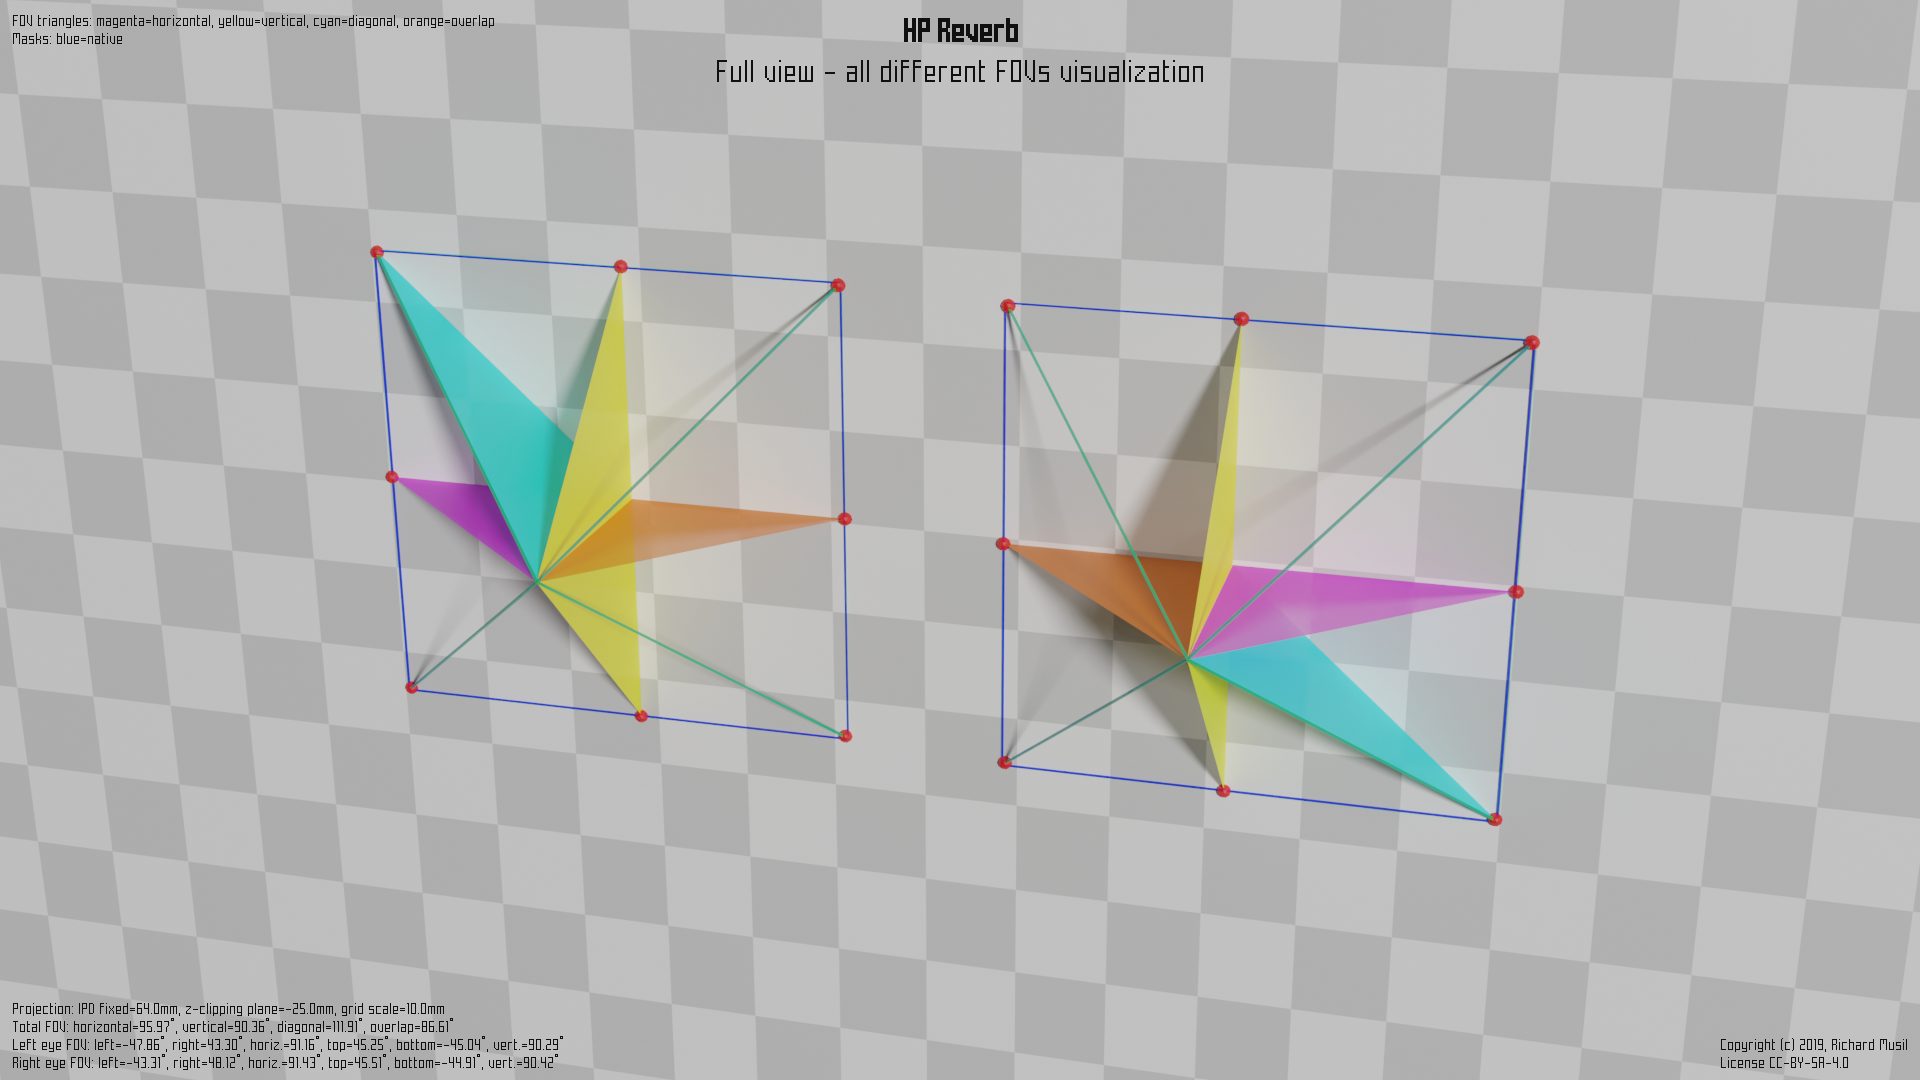
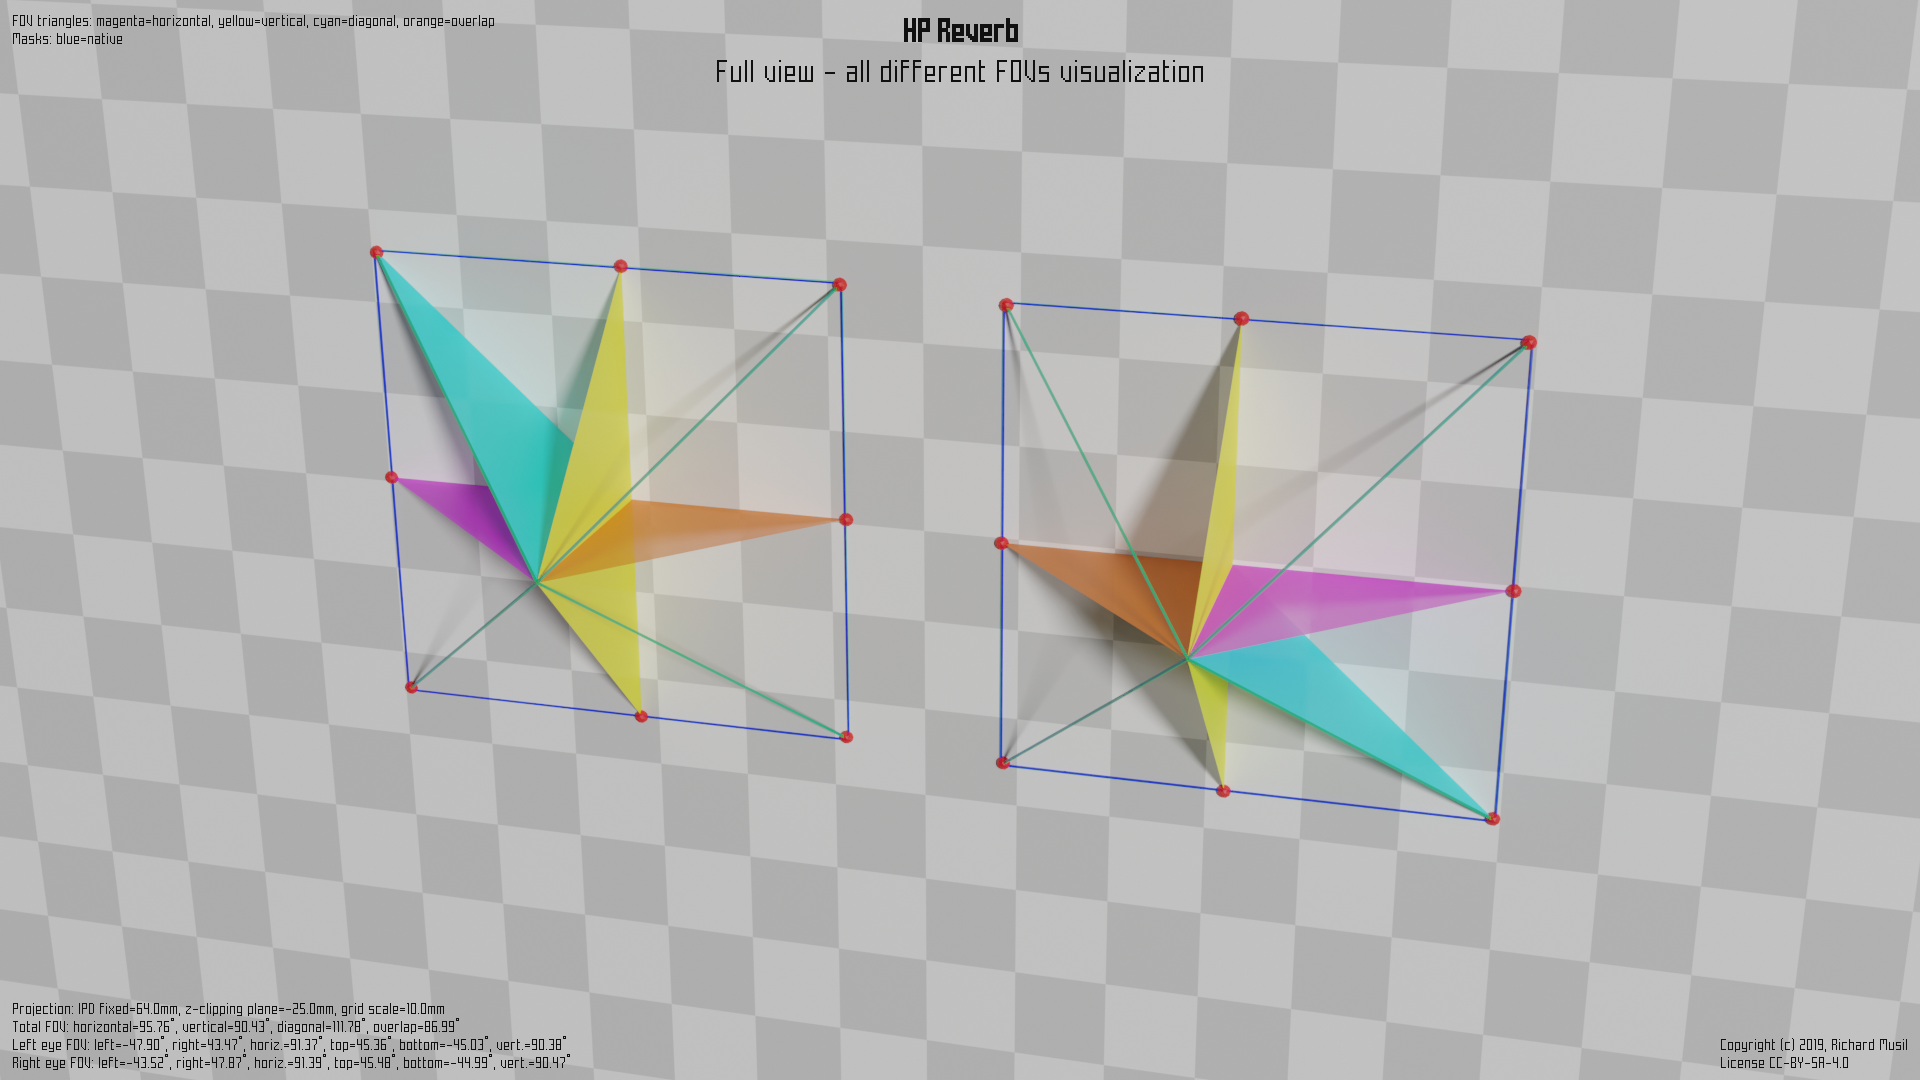
Changed HP Reverb data.

diff --git a/hmd_cfgs/Reverb_Native.md b/hmd_cfgs/Reverb_Native.md
@@ -1,6 +1,6 @@
 ---
 title: HP Reverb
-date: 2019-08-25 22:44:41
+date: 2019-09-30 18:36:56
 ---
 # HP Reverb
 
@@ -8,13 +8,13 @@ date: 2019-08-25 22:44:41
 
 as recorded and displayed by [`hmdq` or `hmdv`](https://github.com/risa2000/hmdq).
 ```
-    Time stamp: 2019-08-25 22:44:41
-  hmdq version: 1.0.2
-Output version: 3
-    OS version: 10.0.18362.295
-OpenVR version: 1.7.9
+    Time stamp: 2019-09-30 18:36:56
+  hmdq version: 1.3.1
+Output version: 4
+    OS version: 10.0.18362.356
+OpenVR version: 1.7.15
 
-Recommended render target size: [2276, 2228]
+Recommended render target size: [1608, 1576]
 
 Left eye HAM mesh:
      original vertices: 42, triangles: 14
@@ -22,77 +22,77 @@ Left eye HAM mesh:
              mesh area: 0.04 %
 
 Left eye to head transformation matrix:
-    [[ 9.99998808e-01 -2.78193242e-04  1.04175194e-03 -3.34944092e-02]
-     [ 2.78580410e-04  9.99996662e-01 -4.97577188e-04  5.45609568e-04]
-     [-1.04131771e-03  4.98283771e-04  9.99996424e-01 -2.50589306e-04]]
+    [[ 9.99995351e-01 -5.44562754e-05 -8.96942918e-04 -2.94943042e-02]
+     [ 5.19069145e-05  9.99996543e-01 -1.22563192e-03  4.90230974e-04]
+     [ 8.97436927e-04  1.22554961e-03  9.99995232e-01 -3.45972629e-04]]
 
 Left eye raw LRBT values:
-    left:        -1.102668
-    right:        0.944358
-    bottom:      -1.002467
-    top:          1.007847
+    left:        -1.108628
+    right:        0.946306
+    bottom:      -1.003369
+    top:          1.010052
 
 Left eye raw FOV:
-    left:       -47.80 deg
-    right:       43.36 deg
-    bottom:     -45.07 deg
-    top:         45.22 deg
-    horiz.:      91.16 deg
-    vert.:       90.29 deg
+    left:       -47.95 deg
+    right:       43.42 deg
+    bottom:     -45.10 deg
+    top:         45.29 deg
+    horiz.:      91.37 deg
+    vert.:       90.38 deg
 
 Left eye head FOV:
-    left:       -47.86 deg
-    right:       43.30 deg
-    bottom:     -45.04 deg
-    top:         45.25 deg
-    horiz.:      91.16 deg
-    vert.:       90.29 deg
+    left:       -47.90 deg
+    right:       43.47 deg
+    bottom:     -45.03 deg
+    top:         45.36 deg
+    horiz.:      91.37 deg
+    vert.:       90.38 deg
 
 Right eye HAM mesh:
      original vertices: 42, triangles: 14
-    optimized vertices: 23, n-gons: 5
+    optimized vertices: 24, n-gons: 6
              mesh area: 0.04 %
 
 Right eye to head transformation matrix:
-    [[ 9.99998868e-01  2.78601219e-04 -1.04131934e-03  3.34942900e-02]
-     [-2.78217252e-04  9.99996662e-01  4.98507288e-04 -5.46843046e-04]
-     [ 1.04175787e-03 -4.97838017e-04  9.99996543e-01  2.51465535e-04]]
+    [[ 9.99995410e-01  5.06595024e-05  8.97265505e-04  2.94939298e-02]
+     [-5.32151898e-05  9.99996662e-01  1.22515601e-03 -4.90901992e-04]
+     [-8.96756013e-04 -1.22525624e-03  9.99995112e-01  3.53860989e-04]]
 
 Right eye raw LRBT values:
-    left:        -0.944502
-    right:        1.112957
-    bottom:      -0.995849
-    top:          1.018947
+    left:        -0.947934
+    right:        1.107410
+    bottom:      -0.997196
+    top:          1.019531
 
 Right eye raw FOV:
-    left:       -43.37 deg
-    right:       48.06 deg
-    bottom:     -44.88 deg
-    top:         45.54 deg
-    horiz.:      91.43 deg
-    vert.:       90.42 deg
+    left:       -43.47 deg
+    right:       47.92 deg
+    bottom:     -44.92 deg
+    top:         45.55 deg
+    horiz.:      91.39 deg
+    vert.:       90.47 deg
 
 Right eye head FOV:
-    left:       -43.31 deg
-    right:       48.12 deg
-    bottom:     -44.91 deg
-    top:         45.51 deg
-    horiz.:      91.43 deg
-    vert.:       90.42 deg
+    left:       -43.52 deg
+    right:       47.87 deg
+    bottom:     -44.99 deg
+    top:         45.48 deg
+    horiz.:      91.39 deg
+    vert.:       90.47 deg
 
 Total FOV:
-    horizontal:  95.97 deg
-    vertical:    90.36 deg
-    diagonal:   111.91 deg
-    overlap:     86.61 deg
+    horizontal:  95.76 deg
+    vertical:    90.43 deg
+    diagonal:   111.78 deg
+    overlap:     86.99 deg
 
 View geometry:
-    left panel rotation:    -0.2 deg
-    right panel rotation:    0.2 deg
-    reported IPD:           67.0 mm
+    left panel rotation:     0.2 deg
+    right panel rotation:   -0.2 deg
+    reported IPD:           59.0 mm
 
 ```
-Recorded and contributed by _nukular_.
+Recorded and contributed by _dillanski_.
 
 ## Rendered FOV visualizations
 

diff --git a/hmd_table.md b/hmd_table.md
@@ -1,6 +1,6 @@
 ---
 title: HMD Geometry Database
-date: 2019-09-20 15:50:21
+date: 2019-09-30 19:49:55
 permalink: /
 ---
 # HMD Geometry Database
@@ -19,7 +19,7 @@ see
 
 Model | Config | FOV hor. | FOV ver. | FOV diag. | Overlap | HAM | Rot LE | Rot RE
 --- | --- | ---: | ---: | ---: | ---: | ---: | ---: | ---:
-HP Reverb | [Native](hmd_cfgs/Reverb_Native.md) | [95.97°](images/Reverb_Native_top.dmx.png) | [90.36°](images/Reverb_Native_left.dmx.png) | [111.91°](images/Reverb_Native_over.dmx.png) | [86.61°](images/Reverb_Native_top.dmx.png) | [0.04%](images/Reverb_Native_back.dmx.png) | -0.2° | 0.2°
+HP Reverb | [Native](hmd_cfgs/Reverb_Native.md) | [95.76°](images/Reverb_Native_top.dmx.png) | [90.43°](images/Reverb_Native_left.dmx.png) | [111.78°](images/Reverb_Native_over.dmx.png) | [86.99°](images/Reverb_Native_top.dmx.png) | [0.04%](images/Reverb_Native_back.dmx.png) | 0.2° | -0.2°
 HTC Vive | [Native](hmd_cfgs/Vive_Native.md) | [108.77°](images/Vive_Native_top.dmx.png) | [111.53°](images/Vive_Native_left.dmx.png) | [113.18°](images/Vive_Native_over.dmx.png) | [93.45°](images/Vive_Native_top.dmx.png) | [19.10%](images/Vive_Native_back.dmx.png) |  | 
 Oculus Rift CV1 | [Native](hmd_cfgs/OculusRiftCV1_Native.md) | [87.95°](images/OculusRiftCV1_Native_top.dmx.png) | [89.66°](images/OculusRiftCV1_Native_left.dmx.png) | [108.25°](images/OculusRiftCV1_Native_over.dmx.png) | [71.15°](images/OculusRiftCV1_Native_top.dmx.png) |  |  | 
 Pimax 5K Plus | [Large+Native](hmd_cfgs/Pimax5KPlus_Large_Native.md) | [160.29°](images/Pimax5KPlus_Large_Native_top.dmx.png) | [102.70°](images/Pimax5KPlus_Large_Native_left.dmx.png) | [158.04°](images/Pimax5KPlus_Large_Native_over.dmx.png) | [86.79°](images/Pimax5KPlus_Large_Native_top.dmx.png) | [3.49%](images/Pimax5KPlus_Large_Native_back.dmx.png) | -10.0° | 10.0°
@@ -73,5 +73,5 @@ panels are (most likely) coplanar and parallel to the face.
 
 ---
 
-The latest headset data recorded: 2019-09-20 13:31:55  
-The table was generated: 2019-09-20 15:50:21
+The latest headset data recorded: 2019-09-30 18:36:56  
+The table was generated: 2019-09-30 19:49:55

diff --git a/contributing.md b/contributing.md
@@ -7,7 +7,7 @@ title: Contributing
 The data in the database are collected by volunteers, who own the headsets in
 question, by using [`hmdq`
 tool](https://github.com/risa2000/hmdq/releases/latest). Then they pass the
-data (which are saved in a JSON file) to me and I update the database.  If you
+data (which are saved in a JSON file) to me and I update the database. If you
 would like to help by providing data from your headset, you will need:
 
 * OpenVR/SteamVR compatible headset,
